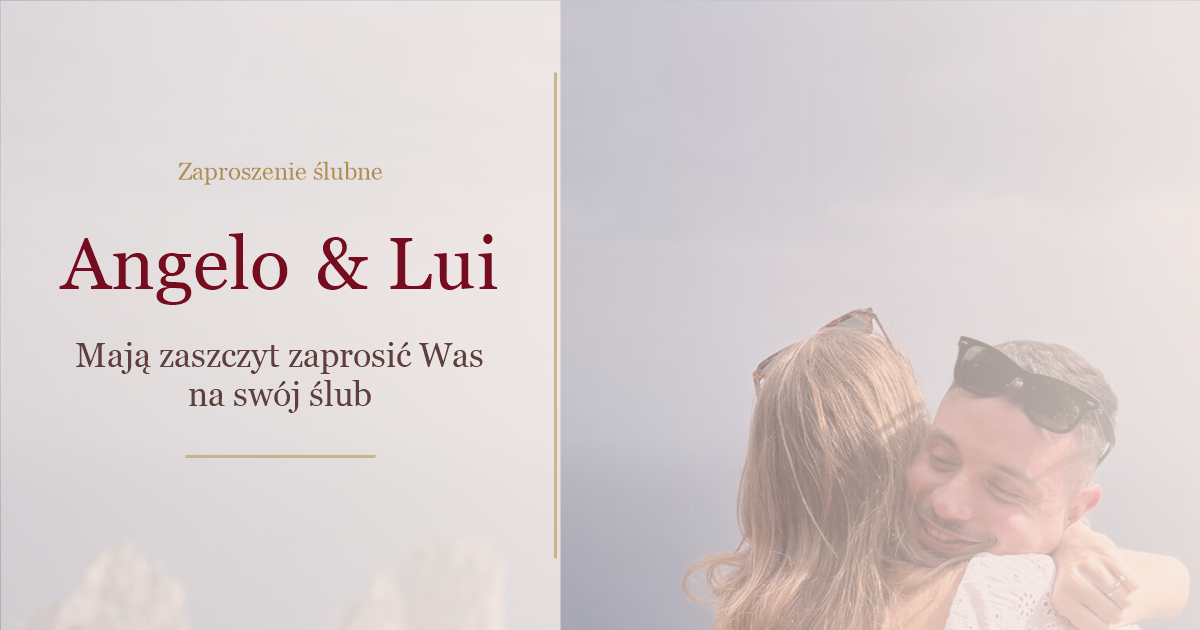
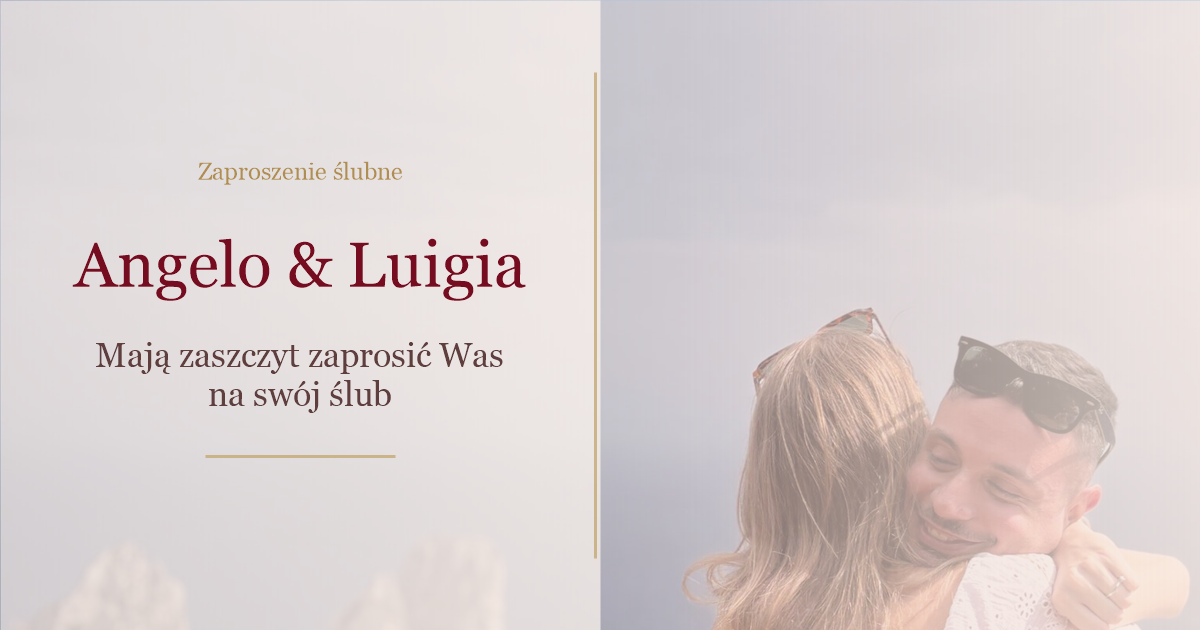
Aggiorna titolo preview link polacco

Changed region(s): [[0.0308, 0.0, 0.5242, 1.0], [0.0617, 0.5429, 0.4317, 0.6635], [0.1542, 0.2413, 0.3392, 0.3016]]

diff --git a/src/data/event.js b/src/data/event.js
@@ -1,7 +1,7 @@
 export const event = {
   meta: {
     pageTitle: "Zaproszenie ślubne Angelo i Luigia",
-    shareTitle: "Zaproszenie Angelo i Luigia",
+    shareTitle: "Angelo & Luigia",
     shareDescription: "Będzie nam bardzo miło dzielić z Wami dzień naszego ślubu.",
     shareImage: "https://invitoginapl.vercel.app/images/link-preview.png",
     shareImageWidth: "1200",
